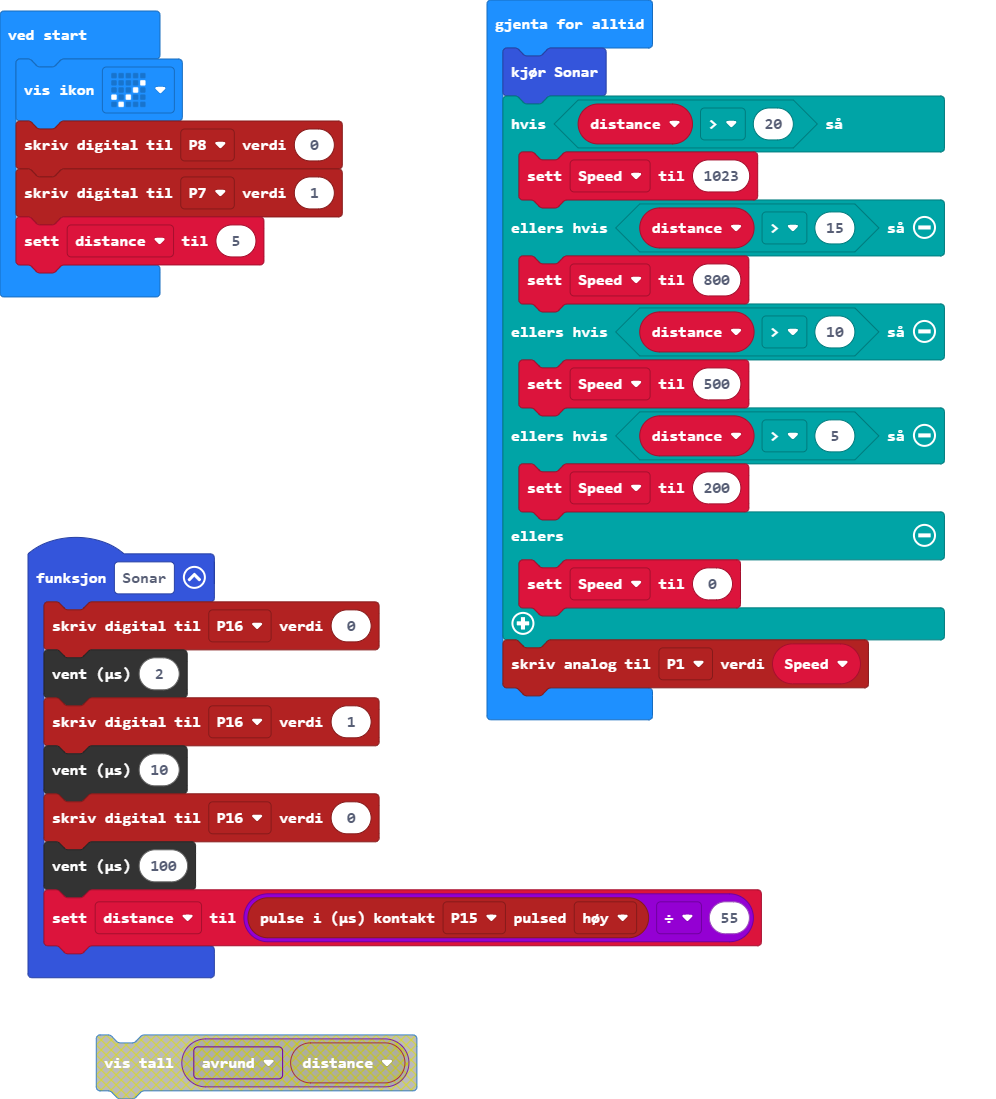
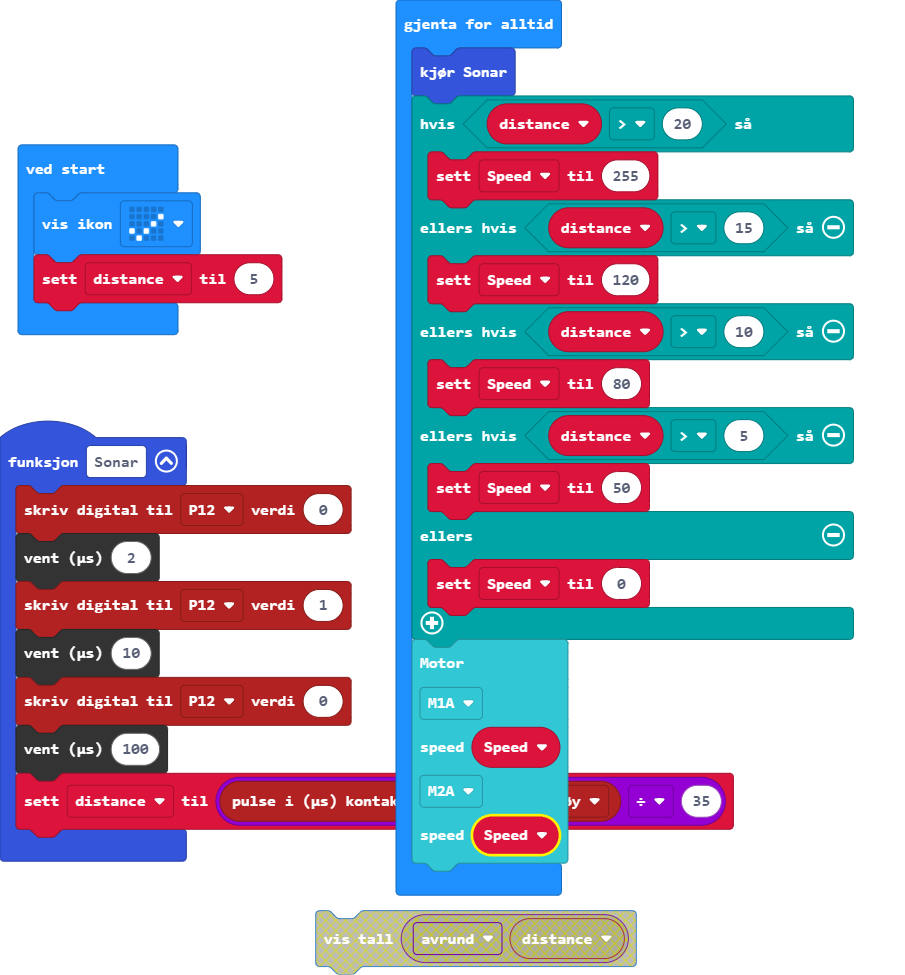
Update pxt.json, main.blocks, main.ts

diff --git a/main.ts b/main.ts
@@ -1,30 +1,33 @@
 function Sonar () {
-    pins.digitalWritePin(DigitalPin.P16, 0)
+    pins.digitalWritePin(DigitalPin.P12, 0)
     control.waitMicros(2)
-    pins.digitalWritePin(DigitalPin.P16, 1)
+    pins.digitalWritePin(DigitalPin.P12, 1)
     control.waitMicros(10)
-    pins.digitalWritePin(DigitalPin.P16, 0)
+    pins.digitalWritePin(DigitalPin.P12, 0)
     control.waitMicros(100)
-    distance = pins.pulseIn(DigitalPin.P15, PulseValue.High) / 55
+    distance = pins.pulseIn(DigitalPin.P13, PulseValue.High) / 35
 }
 let Speed = 0
 let distance = 0
 basic.showIcon(IconNames.Yes)
-pins.digitalWritePin(DigitalPin.P8, 0)
-pins.digitalWritePin(DigitalPin.P7, 1)
 distance = 5
 basic.forever(function () {
     Sonar()
     if (distance > 20) {
-        Speed = 1023
+        Speed = 255
     } else if (distance > 15) {
-        Speed = 800
+        Speed = 120
     } else if (distance > 10) {
-        Speed = 500
+        Speed = 80
     } else if (distance > 5) {
-        Speed = 200
+        Speed = 50
     } else {
         Speed = 0
     }
-    pins.analogWritePin(AnalogPin.P1, Speed)
+    robotbit.MotorRunDual(
+    robotbit.Motors.M1A,
+    Speed,
+    robotbit.Motors.M2A,
+    Speed
+    )
 })
